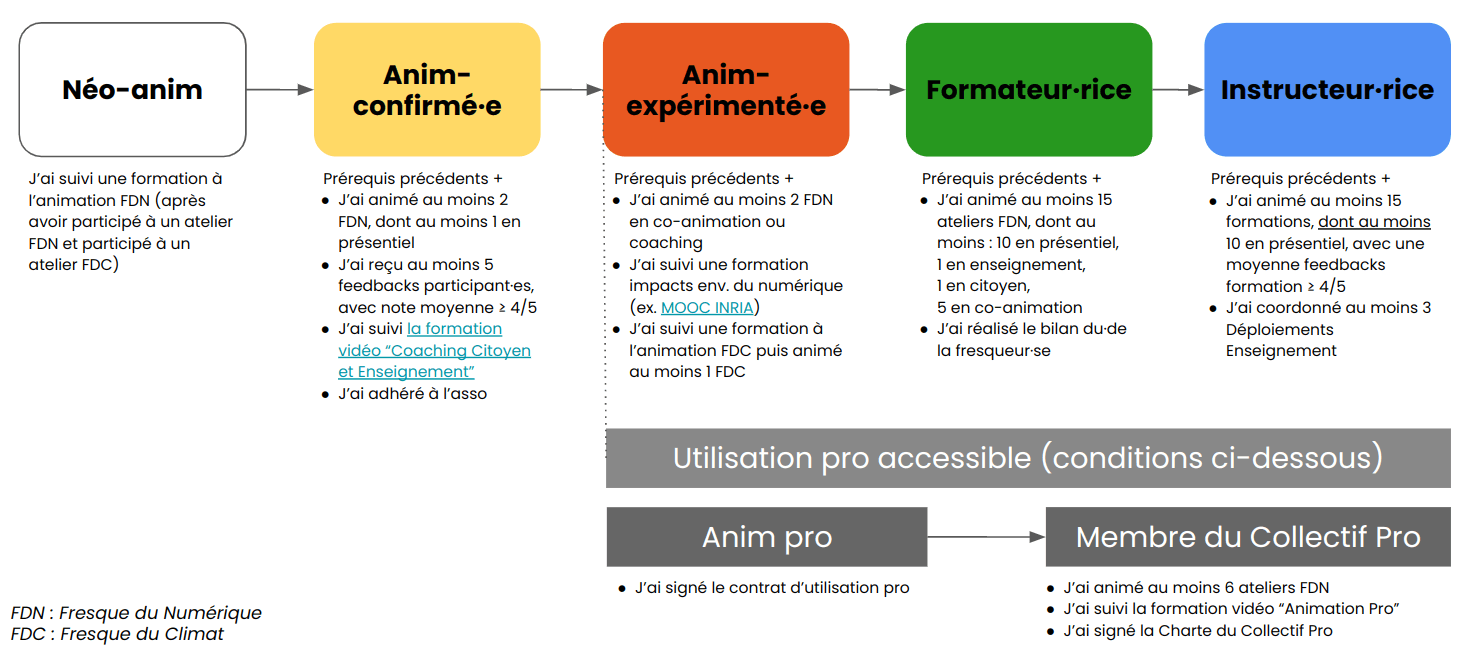
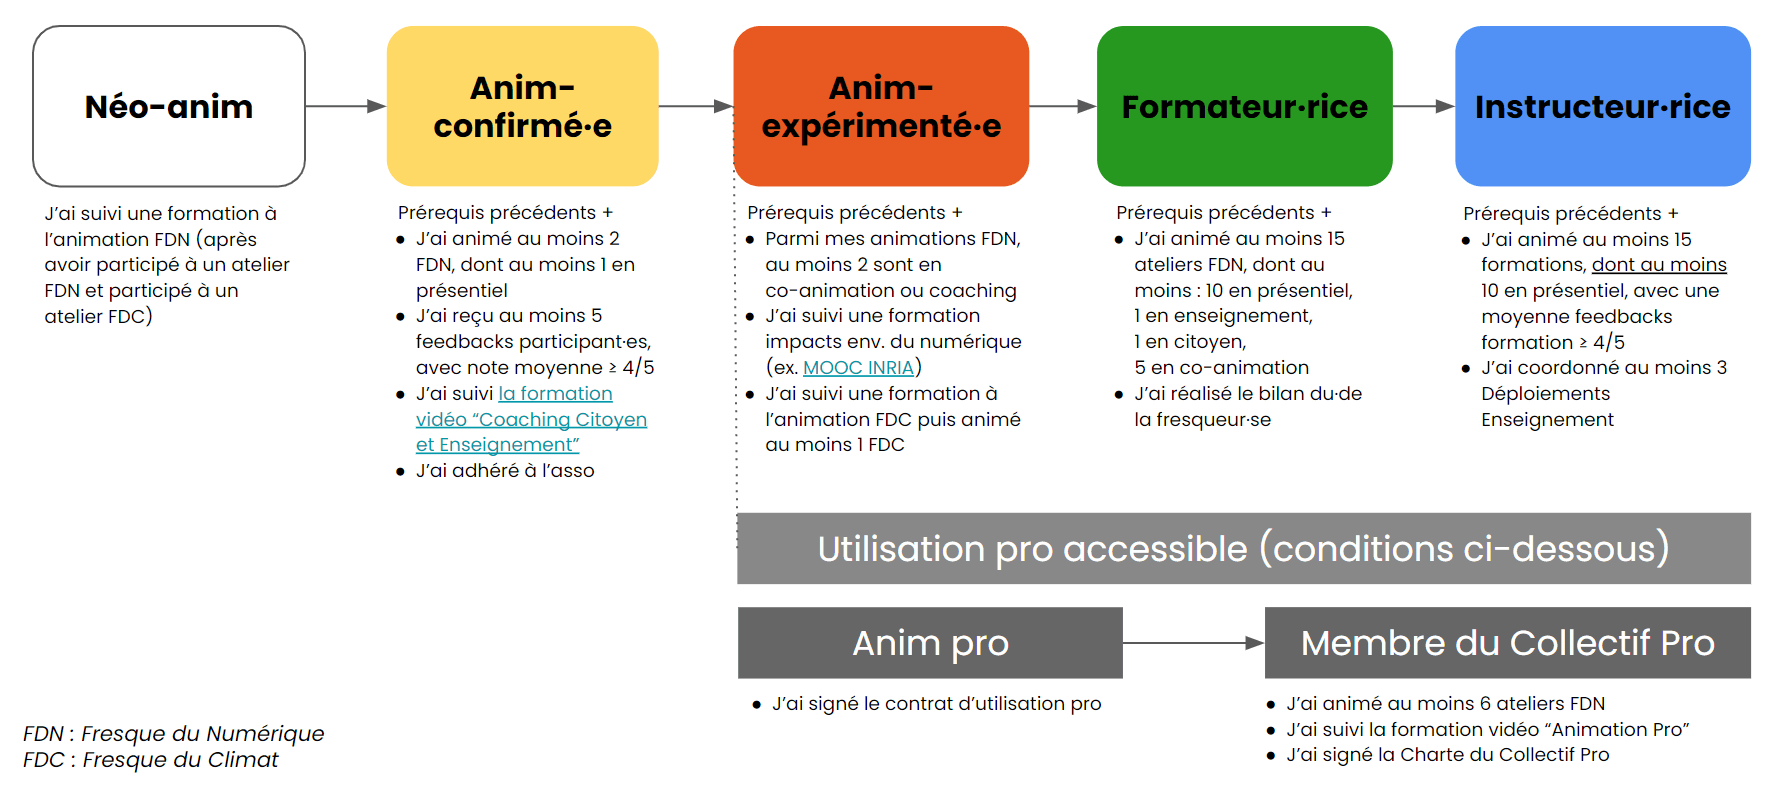
Modif parcours

diff --git a/parcours.html b/parcours.html
@@ -226,8 +226,6 @@
             Ces sessions visent à intégrer les nouveaux formateur·rice·s, mais aussi une amélioration continue des formateur·rices déjà actif·ve·s.</p>
         </div>
 
-
-      </div>
     </section>
 
     <section class="pt-0">
@@ -236,6 +234,86 @@
         <img class="img-fluid d-block mx-auto pt-4 mt-3" src="img/synthese-parcours.png" alt="Synthèse du parcours">
       </div>
     </section>
+
+    <section>
+      <div id="international" class="container border-top pt-5 pb-4">
+        <h2 class="h1 text-center mt-3 mb-4">Spécificités du parcours hors de France</h2>
+        <div>
+          <p>Le parcours décrit ci-dessus est valable pour la France métropolitaine et certains autres territoires où à la fois la Fresque du Climat et la Fresque du Numérique sont déjà suffisamment développées.</p>
+          <p>Pour les autres territoires, des adaptations au contexte local sont prévues par l'association, par pragmatisme afin de faciliter la diffusion de l’atelier au plus grand nombre, mais aussi en conservant l'objectif de la meilleure qualité d'animation possible.</p>
+          <p>Ci-dessous les adaptations actuelles concernant l'atelier de conscientisation climat :</p>
+    
+          <table>
+            <table class="table"> <!--table-striped-->
+              <thead class="thead-light">
+                <tr>
+                  <th scope="col" class="align-middle">Pays ou région de résidence de l’animateur</th>
+                  <th scope="col" class="align-middle">Atelier de conscientisation climat</th>
+                </tr>
+              </thead>
+              <tbody>
+                <tr>
+                  <th class="align-middle">France Martinique</th>
+                  <td rowspan="4" class="align-middle">« La Fresque du Climat »</td>
+                </tr>
+                <tr>
+                  <th class="align-middle">France Réunion</th>
+                </tr>
+                <tr>
+                  <th class="align-middle">Belgique</th>
+                </tr>
+                <tr>
+                  <th class="align-middle">Suisse</th>
+                </tr>
+                <tr>
+                  <th class="align-middle">Reste du monde</th>
+                  <td class="align-middle">- « La Fresque du Climat »<br>
+                    OU <br> 
+                    - « En-ROADS » version en groupe avec facilitateur (et non la simulation individuelle)
+                  </td>
+                </tr>
+              </tbody>
+          </table>
+    
+          <p>Ci-dessous les adaptations actuelles concernant les niveaux d'expérience :</p>
+          <table>
+            <table class="table"> <!--table-striped-->
+              <thead class="thead-light">
+                <tr>
+                  <th scope="col" class="align-middle">Pays ou région de résidence de l’animateur</th>
+                  <th scope="col" class="align-middle">Anim confirmé·e</th>
+                  <th scope="col" class="align-middle">Anim expérimenté·e</th>
+                  <th scope="col" class="align-middle">Formateur·rice</th>
+                </tr>
+              </thead>
+              <tbody>
+                <tr>
+                  <th class="align-middle">France Martinique</th>
+                  <td rowspan="4" class="align-middle">Au moins 2 ateliers de la Fresque du Numérique, dont au moins 1 en présentiel</td>
+                  <td rowspan="4" class="align-middle">Co-animation avec au moins un·e Anim confirmé·e, ou coaching/mentorat</td>
+                  <td rowspan="4" class="align-middle">Au moins 15 ateliers de la Fresque du Numérique, dont au moins 10 en présentiel</td>
+                </tr>
+                <tr>
+                  <th class="align-middle">France Réunion</th>
+                </tr>
+                <tr>
+                  <th class="align-middle">Belgique</th>
+                </tr>
+                <tr>
+                  <th class="align-middle">Suisse</th>
+                </tr>
+                <tr>
+                  <th class="align-middle">Reste du monde</th>
+                  <td class="align-middle">Au moins 2 ateliers de la Fresque du Numérique</td>
+                  <td class="align-middle">Co-animation ou coaching/mentorat</td>
+                  <td class="align-middle">Au moins 15 ateliers de la Fresque du Numérique, dont au moins 3 en présentiel</td>
+                </tr>
+              </tbody>
+          </table>
+        </div>
+      </div>
+    </section>
+
 
     <!-- Footer -->
     <footer>
